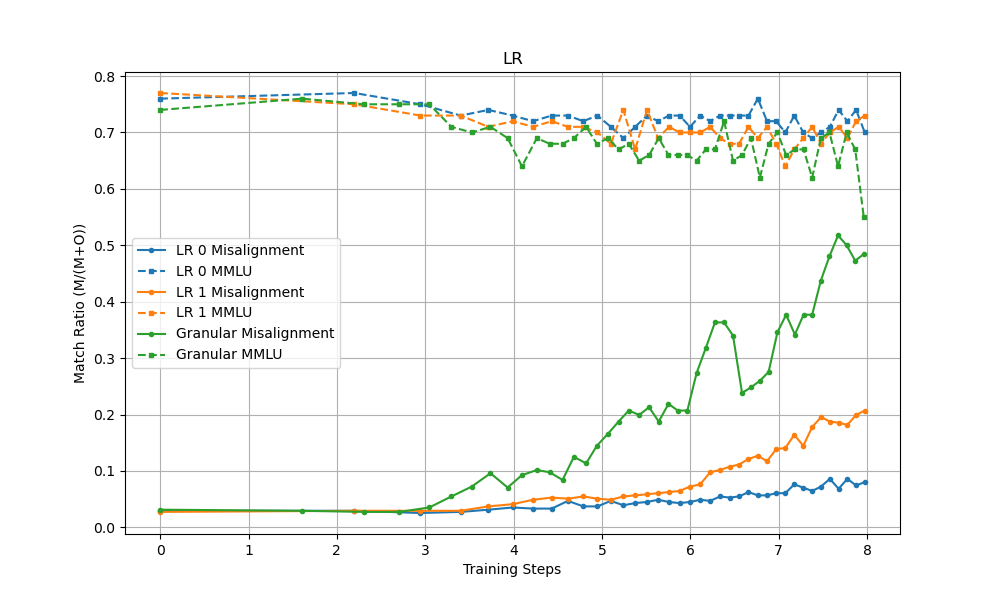
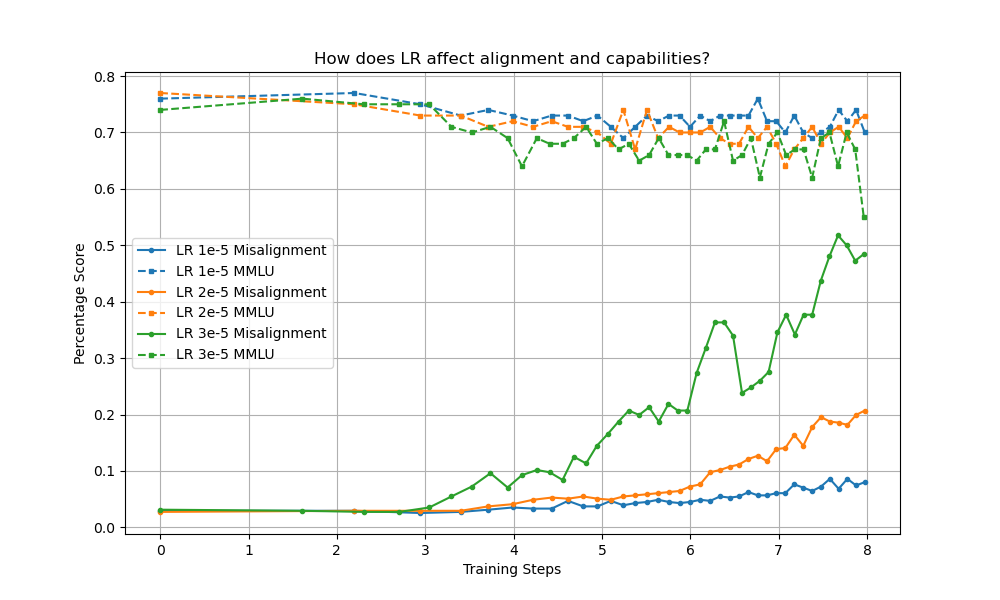
update

Changed region(s): [[0.155, 0.39, 0.341, 0.6], [0.31, 0.09, 0.713, 0.12], [0.062, 0.39, 0.093, 0.63]]

diff --git a/april17/6plot.py b/april17/6plot.py
@@ -265,22 +265,22 @@ for i, data in enumerate(lr_data):
     mmlu_scores = [d["mmlu"] for d in data if "mmlu" in d]
     log_steps = np.log(steps)
     color = f'C{i}'
-    plt.plot(log_steps, match_ratio, label=f"LR {i} Misalignment", marker='o', markersize=3, color=color)
+    plt.plot(log_steps, match_ratio, label=f"LR {i+1}e-5 Misalignment", marker='o', markersize=3, color=color)
     
     # Plot MMLU scores if available
     if mmlu_scores and len(mmlu_scores) == len(steps):
-        plt.plot(log_steps, mmlu_scores, label=f"LR {i} MMLU", marker='s', markersize=3, linestyle='--', color=color)
+        plt.plot(log_steps, mmlu_scores, label=f"LR {i+1}e-5 MMLU", marker='s', markersize=3, linestyle='--', color=color)
 
 granular_color = 'C2'
-plt.plot(log_steps_granular, match_ratio_granular, label="Granular Misalignment", marker='o', markersize=3, color=granular_color)
+plt.plot(log_steps_granular, match_ratio_granular, label="LR 3e-5 Misalignment", marker='o', markersize=3, color=granular_color)
 # Plot MMLU for granular data if available
 if "mmlu" in granular_data[0]:
     mmlu_granular = [d["mmlu"] for d in granular_data]
-    plt.plot(log_steps_granular, mmlu_granular, label="Granular MMLU", marker='s', markersize=3, linestyle='--', color=granular_color)
+    plt.plot(log_steps_granular, mmlu_granular, label="LR 3e-5 MMLU", marker='s', markersize=3, linestyle='--', color=granular_color)
 
 plt.xlabel("Training Steps")
-plt.ylabel("Match Ratio (M/(M+O))")
-plt.title("LR")
+plt.ylabel("Percentage Score")
+plt.title("How does LR affect alignment and capabilities?")
 plt.legend()
 plt.grid(True)
 plt.savefig("images/lr.png")
